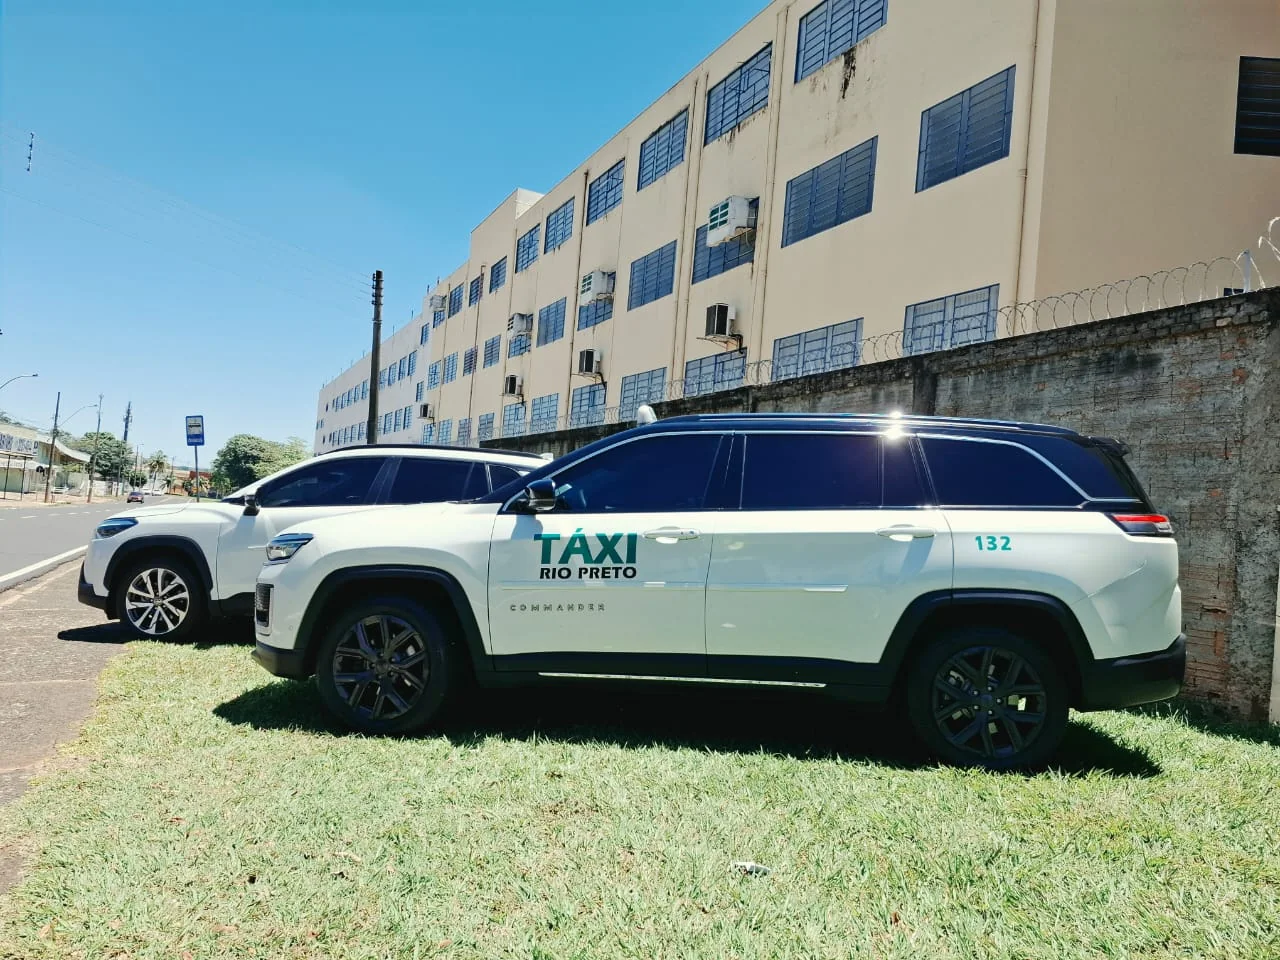
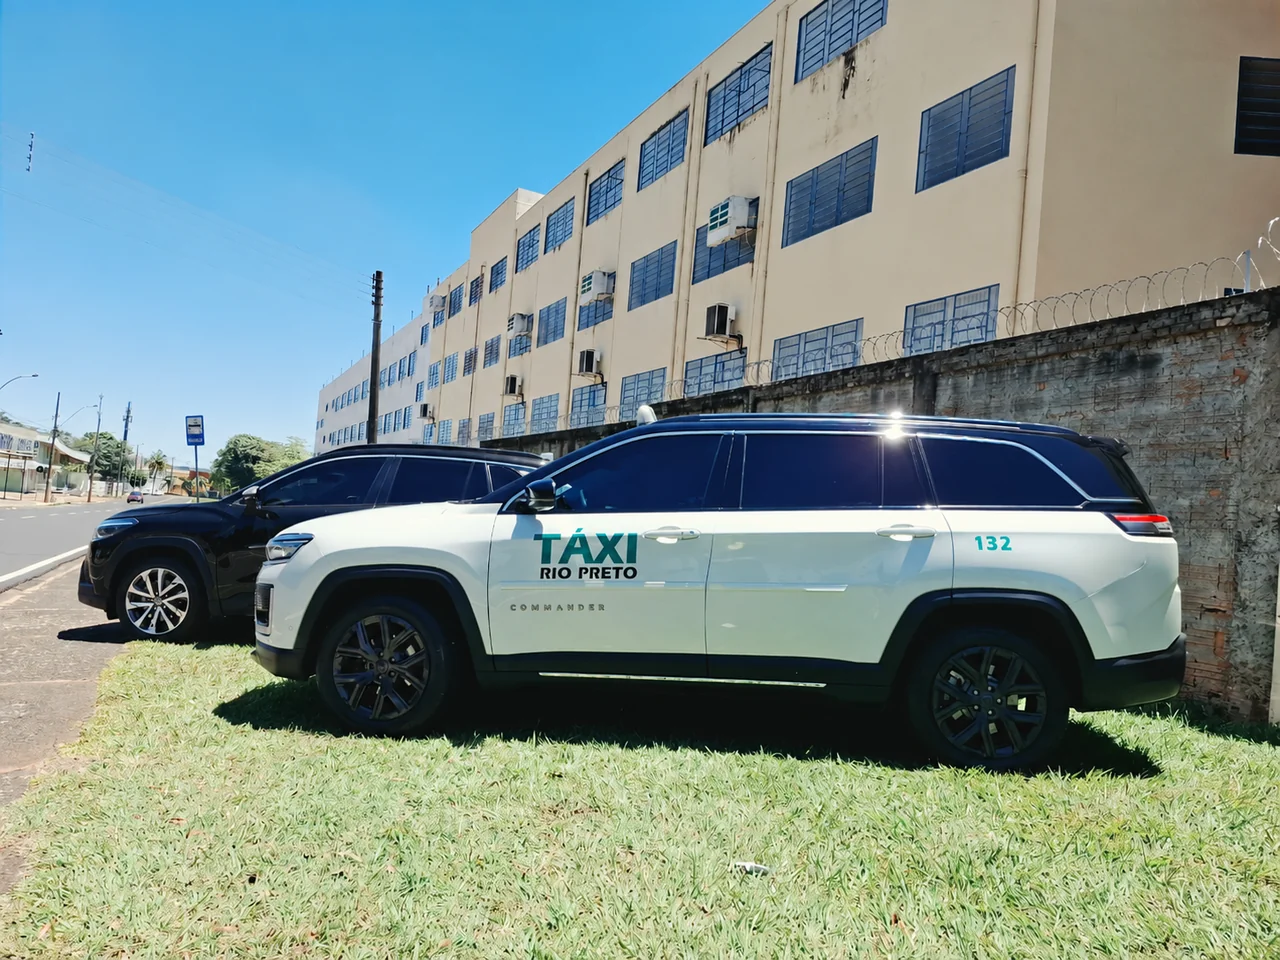
Show the Corolla Cross in black

diff --git a/index.html b/index.html
@@ -21,7 +21,7 @@
 <section class="intro section-pad"><div class="container intro-grid"><p class="overline">Apresentação</p><div><h2>Uma viagem mais <em>leve.</em></h2><p>A J&amp;R Transporte atende deslocamentos executivos em São José do Rio Preto e região. Fale com a equipe para consultar disponibilidade e solicitar seu orçamento.</p></div></div></section>
 <section class="services section-pad" id="servicos"><div class="container"><div class="section-heading"><p class="overline">Como podemos ajudar</p><h2>Serviços</h2></div><div class="service-row"><span class="service-number">01</span><div><h3>Transporte executivo</h3><p>Deslocamentos com atendimento executivo. Consulte disponibilidade e detalhes pelo WhatsApp.</p></div><span class="service-rule"></span></div></div></section>
 <section id="regiao" class="region section-pad"><div class="container region-inner"><div><p class="overline">Onde atendemos</p><h2>Perto de você,<br><em>na região.</em></h2></div><p>Atuação em <strong>São José do Rio Preto e região.</strong><br>Consulte pelo WhatsApp se o seu destino está na área atendida.</p></div></section>
-<section class="fleet section-pad" id="frota"><div class="container"><div class="section-heading"><p class="overline">Veículos</p><h2>Frota e parceria</h2></div><div class="fleet-grid"><article class="fleet-item"><img class="fleet-photo" src="/assets/carro-taxi-rio-preto.webp" alt="Carro branco com identificação Táxi Rio Preto estacionado ao lado de outro veículo." width="1280" height="960" loading="lazy" decoding="async"><h3>Carro</h3><p>Consulte a disponibilidade deste veículo com a equipe.</p></article><article class="fleet-item partner"><img class="fleet-photo" src="/assets/van-parceira.webp" alt="Van prata identificada como KLC Transportes, estacionada à sombra de árvores." width="1152" height="864" loading="lazy" decoding="async"><p class="overline">Parceira</p><h3>Van parceira</h3><p>Disponibilidade e informações sob consulta.</p></article></div></div></section>
+<section class="fleet section-pad" id="frota"><div class="container"><div class="section-heading"><p class="overline">Veículos</p><h2>Frota e parceria</h2></div><div class="fleet-grid"><article class="fleet-item"><img class="fleet-photo" src="/assets/carro-taxi-rio-preto.webp" alt="Carro branco identificado como Táxi Rio Preto à frente de um Corolla Cross preto." width="1280" height="960" loading="lazy" decoding="async"><h3>Carro</h3><p>Consulte a disponibilidade deste veículo com a equipe.</p></article><article class="fleet-item partner"><img class="fleet-photo" src="/assets/van-parceira.webp" alt="Van prata identificada como KLC Transportes, estacionada à sombra de árvores." width="1152" height="864" loading="lazy" decoding="async"><p class="overline">Parceira</p><h3>Van parceira</h3><p>Disponibilidade e informações sob consulta.</p></article></div></div></section>
 <section class="clients section-pad" id="empresas"><div class="container clients-inner"><div><p class="overline">Confiança</p><h2>Empresas atendidas</h2><p class="clients-note">Nomes informados pela empresa. Exibidos em texto.</p></div><ul class="client-list"><li>Leroy Merlin</li><li>Grupo Veronese</li><li>Braile Biomédica</li><li>Plante Amor Confecções</li><li>Diário da Região</li><li>Sesc/SP</li><li>Latam</li><li>Conselho Regional de Psicologia</li><li>Hospital do Amor — Barretos</li><li>Hospital de Base</li><li>Santa Casa de Votuporanga</li></ul></div></section>
 <section id="contato" class="contact section-pad"><div class="container contact-inner"><div><p class="overline">Vamos conversar</p><h2>Planeje seu próximo<br><em>deslocamento.</em></h2></div><div class="contact-action"><p>Solicite um orçamento e consulte disponibilidade pelo WhatsApp.</p><a class="button button-gold whatsapp-link" href="https://wa.me/5517997727070?text=Ol%C3%A1%21%20Gostaria%20de%20solicitar%20um%20or%C3%A7amento%20de%20transporte%20executivo%20em%20S%C3%A3o%20Jos%C3%A9%20do%20Rio%20Preto%20e%20regi%C3%A3o.%20Poderiam%20me%20informar%20a%20disponibilidade%3F" target="_blank" rel="noopener noreferrer">Solicitar orçamento pelo WhatsApp <span aria-hidden="true">↗</span></a><p class="contact-note">A mensagem será aberta no WhatsApp para você revisar e enviar.</p></div></div></section>
 </main><footer class="footer"><div class="container footer-inner"><a class="brand brand-footer" href="#inicio"><span class="brand-mark">J<span>&amp;</span>R</span><span class="brand-name">J&amp;R <b>Transporte</b></span></a><p>Transporte executivo<br>São José do Rio Preto e região</p><a href="#inicio">Voltar ao início ↑</a></div><div class="container copyright">© <span id="year"></span> J&amp;R Transporte</div></footer>
